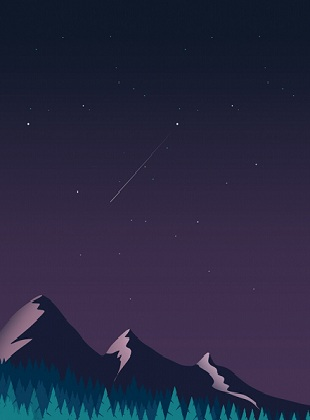
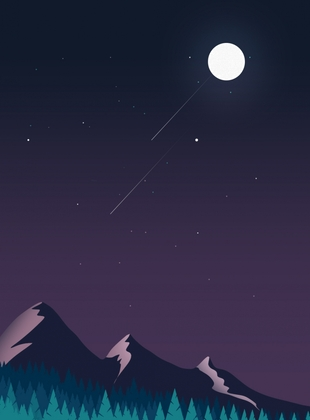
Add files via upload

diff --git a/styles.css b/styles.css
@@ -44,7 +44,7 @@ body {
 	margin: 0 auto;
 	width: 310px;
 	height: 420px;
-	background-image: url(images/2.jpg); /* Путь к фоновому изображению */
+	background-image: url(images/22.jpg); /* Путь к фоновому изображению */
 }
 .top {
 	position: relative;
@@ -91,19 +91,14 @@ body {
 	font-weight: bold;
 	font-size: 18px;
 
-	color: transparent;
-	-webkit-background-clip: text;
-	background-color: text;
-	background-image: linear-gradient(120deg, #0DE1FD, #d1248f, fuchsia);
+	box-shadow: 0 0 10px #d1248f;
+	border-image: linear-gradient(120deg, #0DE1FD, #d1248f, fuchsia);
+	border-image-slice: 1;
 }
 /*  
 	background-image: linear-gradient(120deg, #0DE1FD, #d1248f, fuchsia);
 	-webkit-text-fill-color: transparent;
 	color: transparent;
-
-	border-image: linear-gradient(120deg, #0DE1FD, #d1248f, fuchsia);
-	border-image-slice: 1;
-	box-shadow: 0 0 10px #d1248f;
 
 	-webkit-background-clip: text;
 	-moz-background-clip: text;
